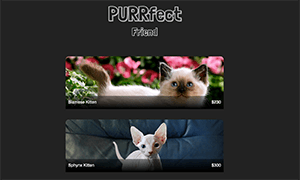
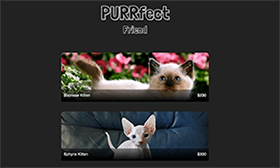
work section changes
work section changes

diff --git a/css/style.css b/css/style.css
@@ -1,1 +1,393 @@
-@import url(http://fonts.googleapis.com/css?family=Lobster);#header,#wrapper{position:relative}#contact,#footer,#header,.contact1,.da-thumbs li a{overflow:hidden}.aboutMe h2,.btn-submit,.contact1 h2,nav ul{text-transform:uppercase}#contact,nav ul{list-style:none}body,html{margin:0 auto;padding:0;line-height:1.4;background-color:#C8C9CA;font-family:Lato,sans-serif}h1{font-family:'Alegreya Sans',sans-serif;font-size:3em}h2{font-size:1.5em}h3{font-size:1.1em}.borderNav{margin-top:5%;background-color:rgba(0,0,0,.4);display:inline-block;text-align:center;top:50%;left:50%;color:#FBFCFE;border:3px solid rgba(0,0,0,.5);padding:.4em 2em;z-index:2}.quote{color:#F0EBEB;font-family:'IM Fell French Canon',serif;font-style:italic}#wrapper{max-width:100%;margin:0 auto}#scrollUp{bottom:20px;right:20px;width:38px;height:38px;background:url(../img/top.png) no-repeat}#scrollUp:hover{filter:alpha(opacity=90);opacity:.7}#header{width:100%;text-align:center;height:560px;background:url(../img/hand-mac.jpg) center no-repeat;background-size:cover}.coverNav,.layer,.overlay{position:absolute;top:0;left:0}#contact,section{text-align:justify}.coverNav{right:0;bottom:0;z-index:1}.overlay{right:0;bottom:0;background:url(../img/hand-macBlur.jpg) center no-repeat;background-size:cover;z-index:0;opacity:0}.layer{background-color:rgba(230,230,230,.3);width:100%;height:100%}#header h1{padding-top:12%}#about{padding:10px 0;background-color:#FFF}.about1{margin:1% auto;max-width:75%;height:100%}.aboutMe h2{margin:0 auto}.profilePhoto{display:block;width:240px;height:240px;margin:0 0 60px;border-radius:100%}#about p{font-size:.95em}#work{margin:0 auto;width:100%;padding:20px 0;background-color:#F2F3F4;height:100%}.work1{margin:0 10%;height:35%}.da-thumbs li{margin:5px;background:rgba(144,144,145,.55);padding:6px;position:relative;box-shadow:0 1px 3px rgba(0,0,0,.1)}.da-thumbs li a,.da-thumbs li a img{display:block;position:relative;width:100%}.da-thumbs li a div{position:absolute;background:rgba(0,0,0,.7);width:100%;height:100%;color:#fff}.fontSize{font-size:26px;font-family:Lobster,cursive}#contact{background-color:#DEDFE0;padding:0;margin:0;font-size:.9em}.contact1{margin:1% auto;width:85%;text-align:center}.contact1 h2{margin:0 auto}.btn-submit{width:150px;float:left;margin:2% 25%;padding:10px 23px;color:#4D4D4D;font-size:.75em;background-color:#AAA6A6;border:1px solid #595959}.btn-submit:hover{filter:alpha(opacity=90);opacity:.7}.btn-submit-img{margin:0 -15%;width:35px;height:35px}input,label,span,textarea{float:left;margin:0 25%}label{width:100%;margin:1% 0 1% 25%}input[type=text],textarea{width:50%;background-color:#F2F3F4;color:#4D4D4D;border:1px solid #595959}input,textarea{padding:1%;border:0}input:focus,textarea:focus{outline:0;border:1px solid #595959}textarea{height:150px;border:1px solid #595959}.contact1 p{clear:both;min-height:25px;text-align:left}#footer,nav{text-align:center}#form span.valid{background-color:#c0ce51;color:#4D4D4D}#form span.error{background-color:#b0240f;color:#4D4D4D}#footer{margin:0 auto;bottom:0;background-color:#C8C9CA}.socialMedia{margin:20px 1px}.socialMedia .fa{font-size:32px;margin:0 2px;-o-transition:all .5s linear;-moz-transition:all .5s linear;-khtml-transition:all .5s linear;-webkit-transition:all .5s linear;-ms-transition:all .5s linear;transition:all .5s linear}.socialMedia .fa:hover{color:#CA8CB3}.copyright{margin-top:1%;margin-bottom:1%;font-size:.8em;color:#646465}nav ul{margin-top:10%;font-size:1.3em}nav a{font-weight:700}ul li{display:inline-block;padding:5px}a{text-decoration:none;color:rgba(121,116,124,.95)}nav a,nav a:visited{color:#E4EBEC}nav a:hover{filter:alpha(opacity=80);opacity:.9}@media screen and (min-width:485px){.firstColumn{width:20em;float:left}.secondColulmn{width:40em;float:right;margin-right:5%}.firstColumn,.secondColulmn{margin-bottom:20px}.btn-submit-txt{margin:0 auto;font-style:italic;font-size:1em;float:left}}@media screen and (min-width:500px){.btn-submit-txt{margin:0 auto;font-style:italic;font-size:1em;float:left}}@media screen and (min-width:600px){.btn-submit-txt{margin-top:-1%;margin-left:-10%;font-style:italic;font-size:1em;float:left}}
+@import url(http://fonts.googleapis.com/css?family=Lobster);
+
+#header,
+#wrapper {
+    position: relative;
+}
+
+#contact,
+#footer,
+#header,
+.contact1,
+.da-thumbs li a {
+    overflow: hidden;
+}
+
+.aboutMe h2,
+.btn-submit,
+.contact1 h2,
+nav ul {
+    text-transform: uppercase;
+}
+
+#contact,
+nav ul {
+    list-style: none;
+}
+
+body,
+html {
+    margin: 0 auto;
+    padding: 0;
+    line-height: 1.4;
+    background-color: #C8C9CA;
+    font-family: Lato, sans-serif;
+}
+
+h1 {
+    font-family: 'Alegreya Sans', sans-serif;
+    font-size: 3em;
+}
+
+h2 {
+    font-size: 1.5em;
+}
+
+h3 {
+    font-size: 1.1em;
+}
+
+.borderNav {
+    margin-top: 5%;
+    background-color: rgba(0, 0, 0, .4);
+    display: inline-block;
+    text-align: center;
+    top: 50%;
+    left: 50%;
+    color: #FBFCFE;
+    border: 3px solid rgba(0, 0, 0, .5);
+    padding: .4em 2em;
+    z-index: 2;
+}
+
+.quote {
+    color: #F0EBEB;
+    font-family: 'IM Fell French Canon', serif;
+    font-style: italic;
+}
+
+#wrapper {
+    max-width: 100%;
+    margin: 0 auto;
+}
+
+#scrollUp {
+    bottom: 20px;
+    right: 20px;
+    width: 38px;
+    height: 38px;
+    background: url(../img/top.png) no-repeat
+}
+
+#scrollUp:hover {
+    filter: alpha(opacity=90);
+    opacity: .7;
+}
+
+#header {
+    width: 100%;
+    text-align: center;
+    height: 560px;
+    background: url(../img/hand-mac.jpg) center no-repeat;
+    background-size: cover;
+}
+
+.coverNav,
+.layer,
+.overlay {
+    position: absolute;
+    top: 0;
+    left: 0;
+}
+
+#contact,
+section {
+    text-align: justify
+}
+.coverNav {
+    right: 0;
+    bottom: 0;
+    z-index: 1;
+}
+
+.overlay {
+    right: 0;
+    bottom: 0;
+    background: url(../img/hand-macBlur.jpg) center no-repeat;
+    background-size: cover;
+    z-index: 0;
+    opacity: 0;
+}
+.layer {
+    background-color: rgba(230, 230, 230, .3);
+    width: 100%;
+    height: 100%;
+}
+#header h1 {
+    padding-top: 12%;
+}
+#about {
+    padding: 10px 0;
+    background-color: #FFF;
+}
+.about1 {
+    margin: 1% auto;
+    max-width: 75%;
+    height: 100%;
+}
+.aboutMe h2 {
+    margin: 0 auto;
+}
+.profilePhoto {
+    display: block;
+    width: 240px;
+    height: 240px;
+    margin: 0 0 60px;
+    border-radius: 100%;
+}
+
+#about p {
+    font-size: .95em;
+}
+
+#work {
+    margin: 0 auto;
+    width: 100%;
+    padding: 15px 0;
+    background-color: #F2F3F4;
+    height: 100%;
+}
+
+.work1 {
+	text-align: center;
+    margin: 0 auto;
+    height: auto;
+}
+
+.da-thumbs li {
+    margin: 4px;
+    background: rgba(144, 144, 145, .55);
+    padding: 3px;
+    position: relative;
+    box-shadow: 0 1px 3px rgba(0, 0, 0, .1);
+}
+
+.da-thumbs li a,
+.da-thumbs li a img {
+    display: block;
+    position: relative;
+    width: 100%;
+}
+
+.da-thumbs li a div {
+    position: absolute;
+    background: rgba(0, 0, 0, .7);
+    width: 100%;
+    height: 100%;
+    color: #fff;
+}
+
+.fontSize {
+    font-size: 26px;
+    font-family: Lobster, cursive;
+}
+
+#contact {
+    background-color: #DEDFE0;
+    padding: 0;
+    margin: 0;
+    font-size: .9em;
+}
+
+.contact1 {
+    margin: 1% auto;
+    width: 85%;
+    text-align: center;
+}
+
+.contact1 h2 {
+    margin: 0 auto;
+}
+
+.btn-submit {
+    width: 150px;
+    float: left;
+    margin: 2% 25%;
+    padding: 10px 23px;
+    color: #4D4D4D;
+    font-size: .75em;
+    background-color: #AAA6A6;
+    border: 1px solid #595959;
+}
+
+.btn-submit:hover {
+    filter: alpha(opacity=90);
+    opacity: .7;
+}
+
+.btn-submit-img {
+    margin: 0 -15%;
+    width: 35px;
+    height: 35px;
+}
+
+input,
+label,
+span,
+textarea {
+    float: left;
+    margin: 0 25%;
+}
+
+label {
+    width: 100%;
+    margin: 1% 0 1% 25%;
+}
+
+input[type=text],
+textarea {
+    width: 50%;
+    background-color: #F2F3F4;
+    color: #4D4D4D;
+    border: 1px solid #595959;
+}
+
+input,
+textarea {
+    padding: 1%;
+    border: 0;
+}
+
+input:focus,
+textarea:focus {
+    outline: 0;
+    border: 1px solid #595959;
+}
+
+textarea {
+    height: 150px;
+    border: 1px solid #595959;
+}
+
+.contact1 p {
+    clear: both;
+    min-height: 25px;
+    text-align: left;
+}
+
+#footer,
+nav {
+    text-align: center;
+}
+
+#form span.valid {
+    background-color: #c0ce51;
+    color: #4D4D4D;
+}
+
+#form span.error {
+    background-color: #b0240f;
+    color: #4D4D4D;
+}
+
+#footer {
+    margin: 0 auto;
+    bottom: 0;
+    background-color: #C8C9CA;
+}
+
+.socialMedia {
+    margin: 20px 1px;
+}
+
+.socialMedia .fa {
+    font-size: 32px;
+    margin: 0 2px;
+    -o-transition: all .5s linear;
+    -moz-transition: all .5s linear;
+    -khtml-transition: all .5s linear;
+    -webkit-transition: all .5s linear;
+    -ms-transition: all .5s linear;
+    transition: all .5s linear;
+}
+
+.socialMedia .fa:hover {
+    color: #CA8CB3;
+}
+
+.copyright {
+    margin-top: 1%;
+    margin-bottom: 1%;
+    font-size: .8em;
+    color: #646465;
+}
+
+nav ul {
+    margin-top: 10%;
+    font-size: 1.3em;
+}
+
+nav a {
+    font-weight: 700;
+}
+
+ul li {
+    display: inline-block;
+    padding: 5px;
+}
+
+a {
+    text-decoration: none;
+    color: rgba(121, 116, 124, .95);
+}
+
+nav a,
+nav a:visited {
+    color: #E4EBEC;
+}
+
+nav a:hover {
+    filter: alpha(opacity=80);
+    opacity: .9;
+}
+
+@media screen and (min-width: 485px) {
+    .firstColumn {
+        width: 20em;
+        float: left;
+    }
+    .secondColulmn {
+        width: 40em;
+        float: right;
+        margin-right: 5%;
+    }
+    .firstColumn,
+    .secondColulmn {
+        margin-bottom: 20px;
+    }
+    .btn-submit-txt {
+        margin: 0 auto;
+        font-style: italic;
+        font-size: 1em;
+        float: left;
+    }
+}
+
+@media screen and (min-width: 500px) {
+    .btn-submit-txt {
+        margin: 0 auto;
+        font-style: italic;
+        font-size: 1em;
+        float: left;
+    }
+}
+
+@media screen and (min-width: 600px) {
+    .btn-submit-txt {
+        margin-top: -1%;
+        margin-left: -10%;
+        font-style: italic;
+        font-size: 1em;
+        float: left;
+    }
+}
